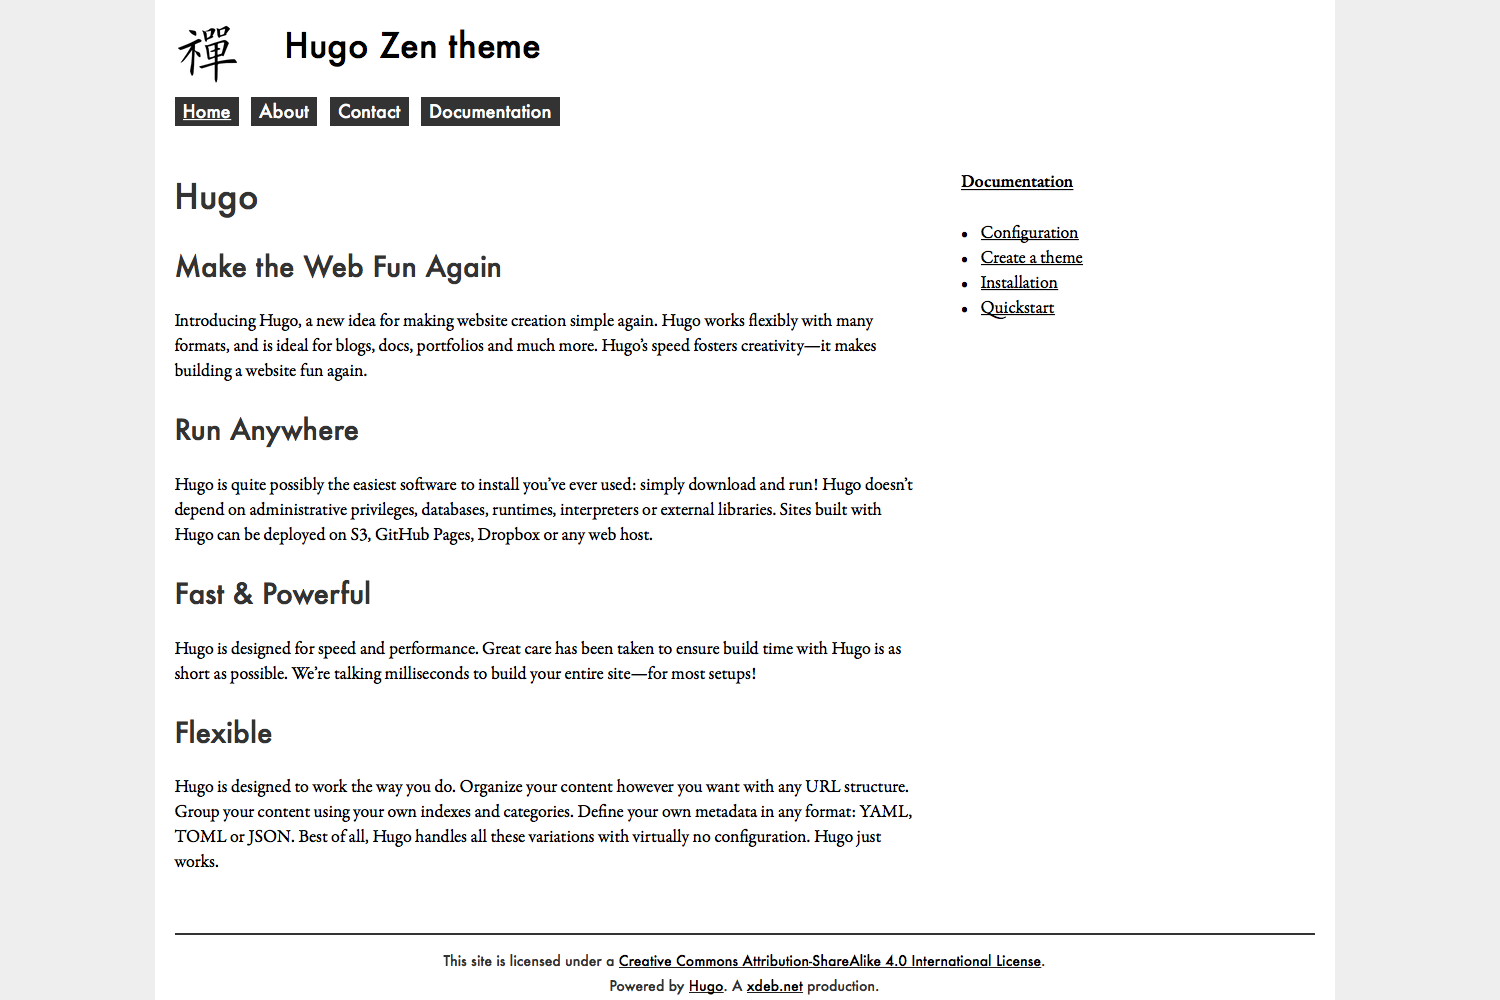
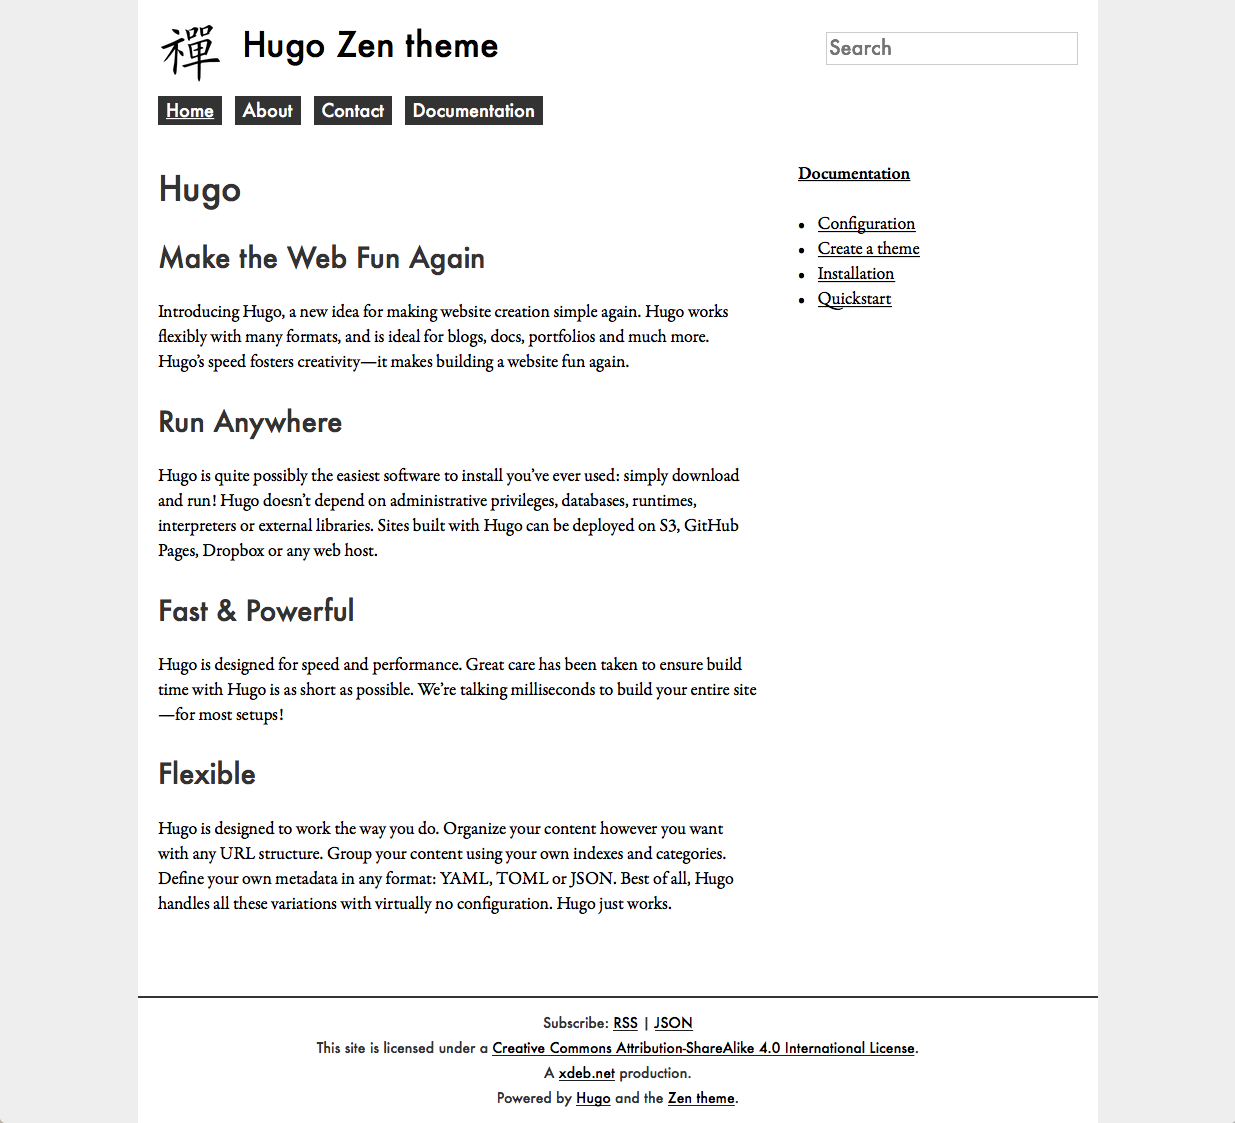
Fix in menu partial to exclude home page. Updated README and screenshots.

diff --git a/layouts/partials/menu.html b/layouts/partials/menu.html
@@ -4,11 +4,14 @@
 <h2 class="visually-hidden">{{ i18n "menu_title" }}</h2>
 <ul class="navbar">
 <li><a class="{{ if .IsHome }}active{{ end }}" href="/">{{ i18n "menu_home" }}</a></li>
-{{ range after 1 (where .Site.Pages "Section" "") -}}
+{{ range where .Site.Pages "Section" "" -}}
+{{ if ne .RelPermalink "/" -}}
 <li><a class="{{ if eq $currentID .UniqueID }}active{{ end }}" href="{{ .RelPermalink }}">{{ .Title }}</a></li>
+{{ end -}}
 {{ end -}}
 {{ range $.Site.Home.Sections -}}
 <li><a class="{{ if eq $currentSection .Section }}active{{ end }}" href="{{ .RelPermalink }}">{{ .Title }}</a></li>
 {{ end -}}
 </ul>
 </nav>
+

diff --git a/README.md b/README.md
@@ -1,8 +1,8 @@
 # A Hugo theme based on the Drupal zen base theme
 
-A very popular base theme for Drupal is [Zen](https://www.drupal.org/project/zen) by [JohnAlbin](https://www.drupal.org/u/johnalbin).
+A very popular base theme for Drupal is [Zen](https://www.drupal.org/project/zen) by [JohnAlbin](https://www.drupal.org/u/johnalbin). This is a port of that theme for [Hugo :: A fast and modern static website engine](https://gohugo.io/).
 
-This is a port of that theme for [Hugo :: A fast and modern static website engine](https://gohugo.io/).
+The Zen grid system has been replaces with a modern CSS grid layout.
 
 
 ## Features
@@ -28,6 +28,11 @@ This is a port of that theme for [Hugo :: A fast and modern static website engin
 ## On the small screen
 
 ![screenshot](https://raw.githubusercontent.com/frjo/hugo-theme-zen/master/images/tn_mobil.png)
+
+
+## The mobile manu
+
+![screenshot](https://raw.githubusercontent.com/frjo/hugo-theme-zen/master/images/tn_mobil_menu.png)
 
 
 ## Installation
